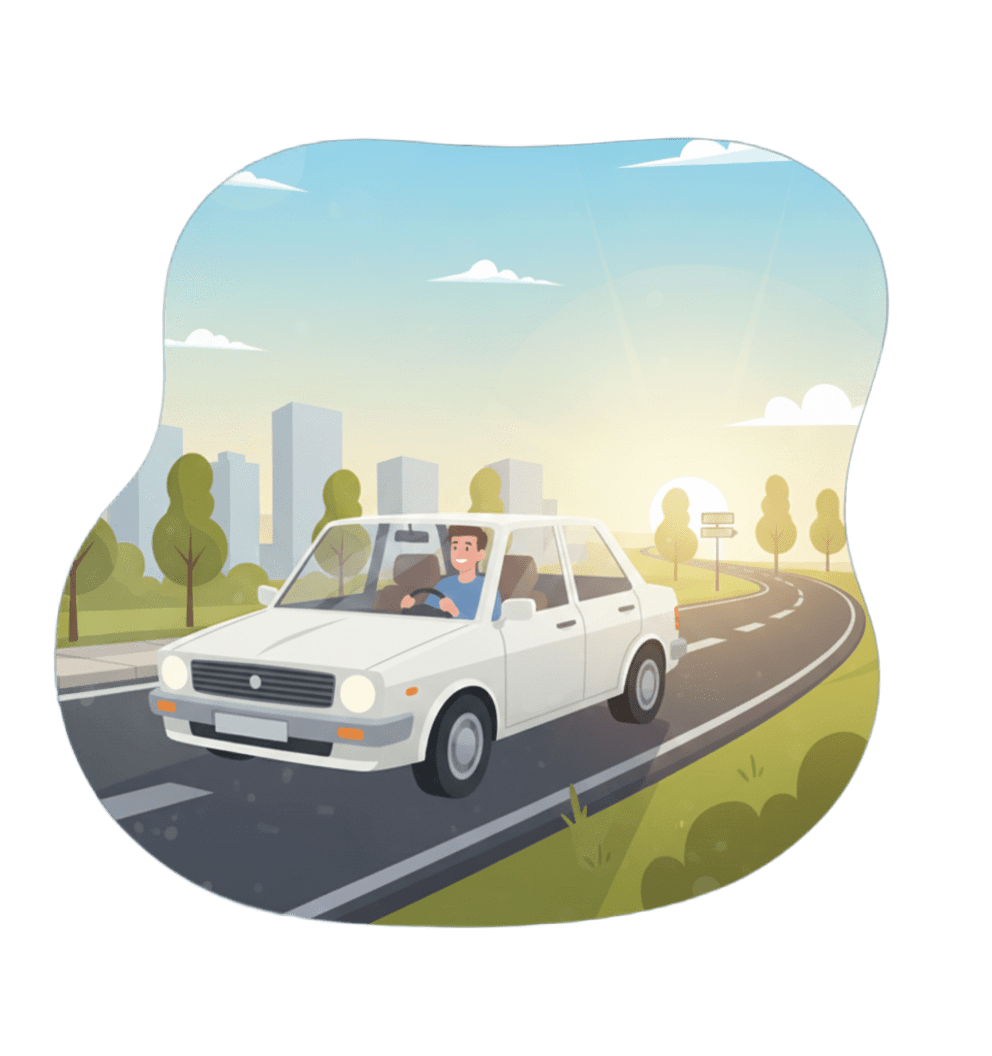
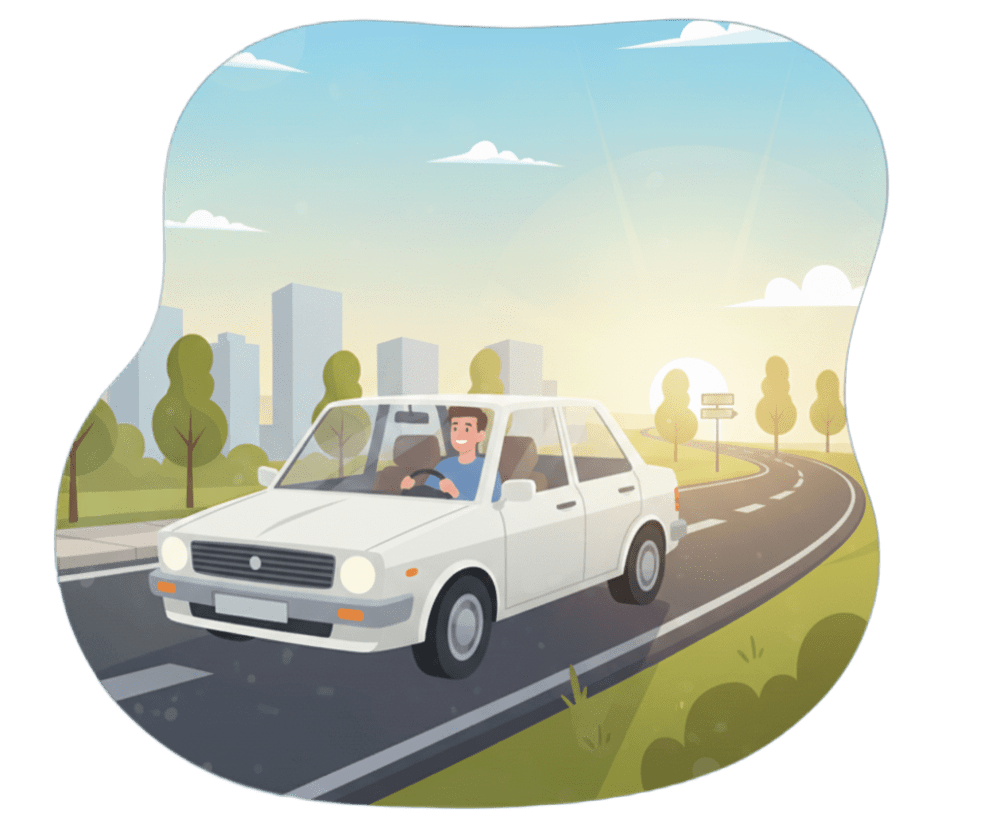
update

diff --git a/database/migrations/2025_11_25_000000_add_kendaraan_id_to_peminjaman_kendaraan_table.php b/database/migrations/2025_11_25_000000_add_kendaraan_id_to_peminjaman_kendaraan_table.php
@@ -1,0 +1,39 @@
+<?php
+
+use Illuminate\Database\Schema\Blueprint;
+use Illuminate\Database\Migrations\Migration;
+
+class AddKendaraanIdToPeminjamanKendaraanTable extends Migration
+{
+    /**
+     * Run the migrations.
+     *
+     * @return void
+     */
+    public function up()
+    {
+        Schema::table('peminjaman_kendaraan', function (Blueprint $table) {
+            $table->unsignedBigInteger('kendaraan_id')->nullable()->after('urgensi');
+            $table->foreign('kendaraan_id')->references('id')->on('kendaraan')->onDelete('set null');
+            
+            // Drop plat_no if it exists
+            if (Schema::hasColumn('peminjaman_kendaraan', 'plat_no')) {
+                $table->dropColumn('plat_no');
+            }
+        });
+    }
+
+    /**
+     * Reverse the migrations.
+     *
+     * @return void
+     */
+    public function down()
+    {
+        Schema::table('peminjaman_kendaraan', function (Blueprint $table) {
+            $table->dropForeign(['kendaraan_id']);
+            $table->dropColumn('kendaraan_id');
+            $table->string('plat_no', 50)->nullable();
+        });
+    }
+}

diff --git a/resources/views/requests/kendaraan_create.blade.php b/resources/views/requests/kendaraan_create.blade.php
@@ -33,7 +33,7 @@
         }
 
         .outer-container {
-            max-width: 950px;
+            max-width: 1250px;
             width: 100%;
             background: rgba(0, 0, 0, 0.25);
             backdrop-filter: blur(12px);
@@ -55,7 +55,8 @@
         .left-panel {
             flex: 1.1;
             background: none;
-            padding: 30px;
+            padding: x 30px;
+            min-height: 700px;
             color: white;
             display: flex;
             flex-direction: column;
@@ -64,14 +65,15 @@
             text-align: center;
         }
 
-        .left-panel .logo { max-width: 160px; margin-bottom: 20px; }
-        .left-panel h2 { font-weight: 700; font-size: 2.2rem; margin-bottom: 20px; }
+        .left-panel .logo { max-width: 160px; margin-bottom: 10px; }
+        .left-panel h2 { font-weight: 700; font-size: 2.2rem; margin-bottom: 10px; }
         .left-panel .illustration { max-width: 90%; }
 
         .right-panel {
             flex: 1.2;
             background: #fff;
             padding: 35px;
+            min-height: 630px;
             border-radius: 15px;
         }
 
